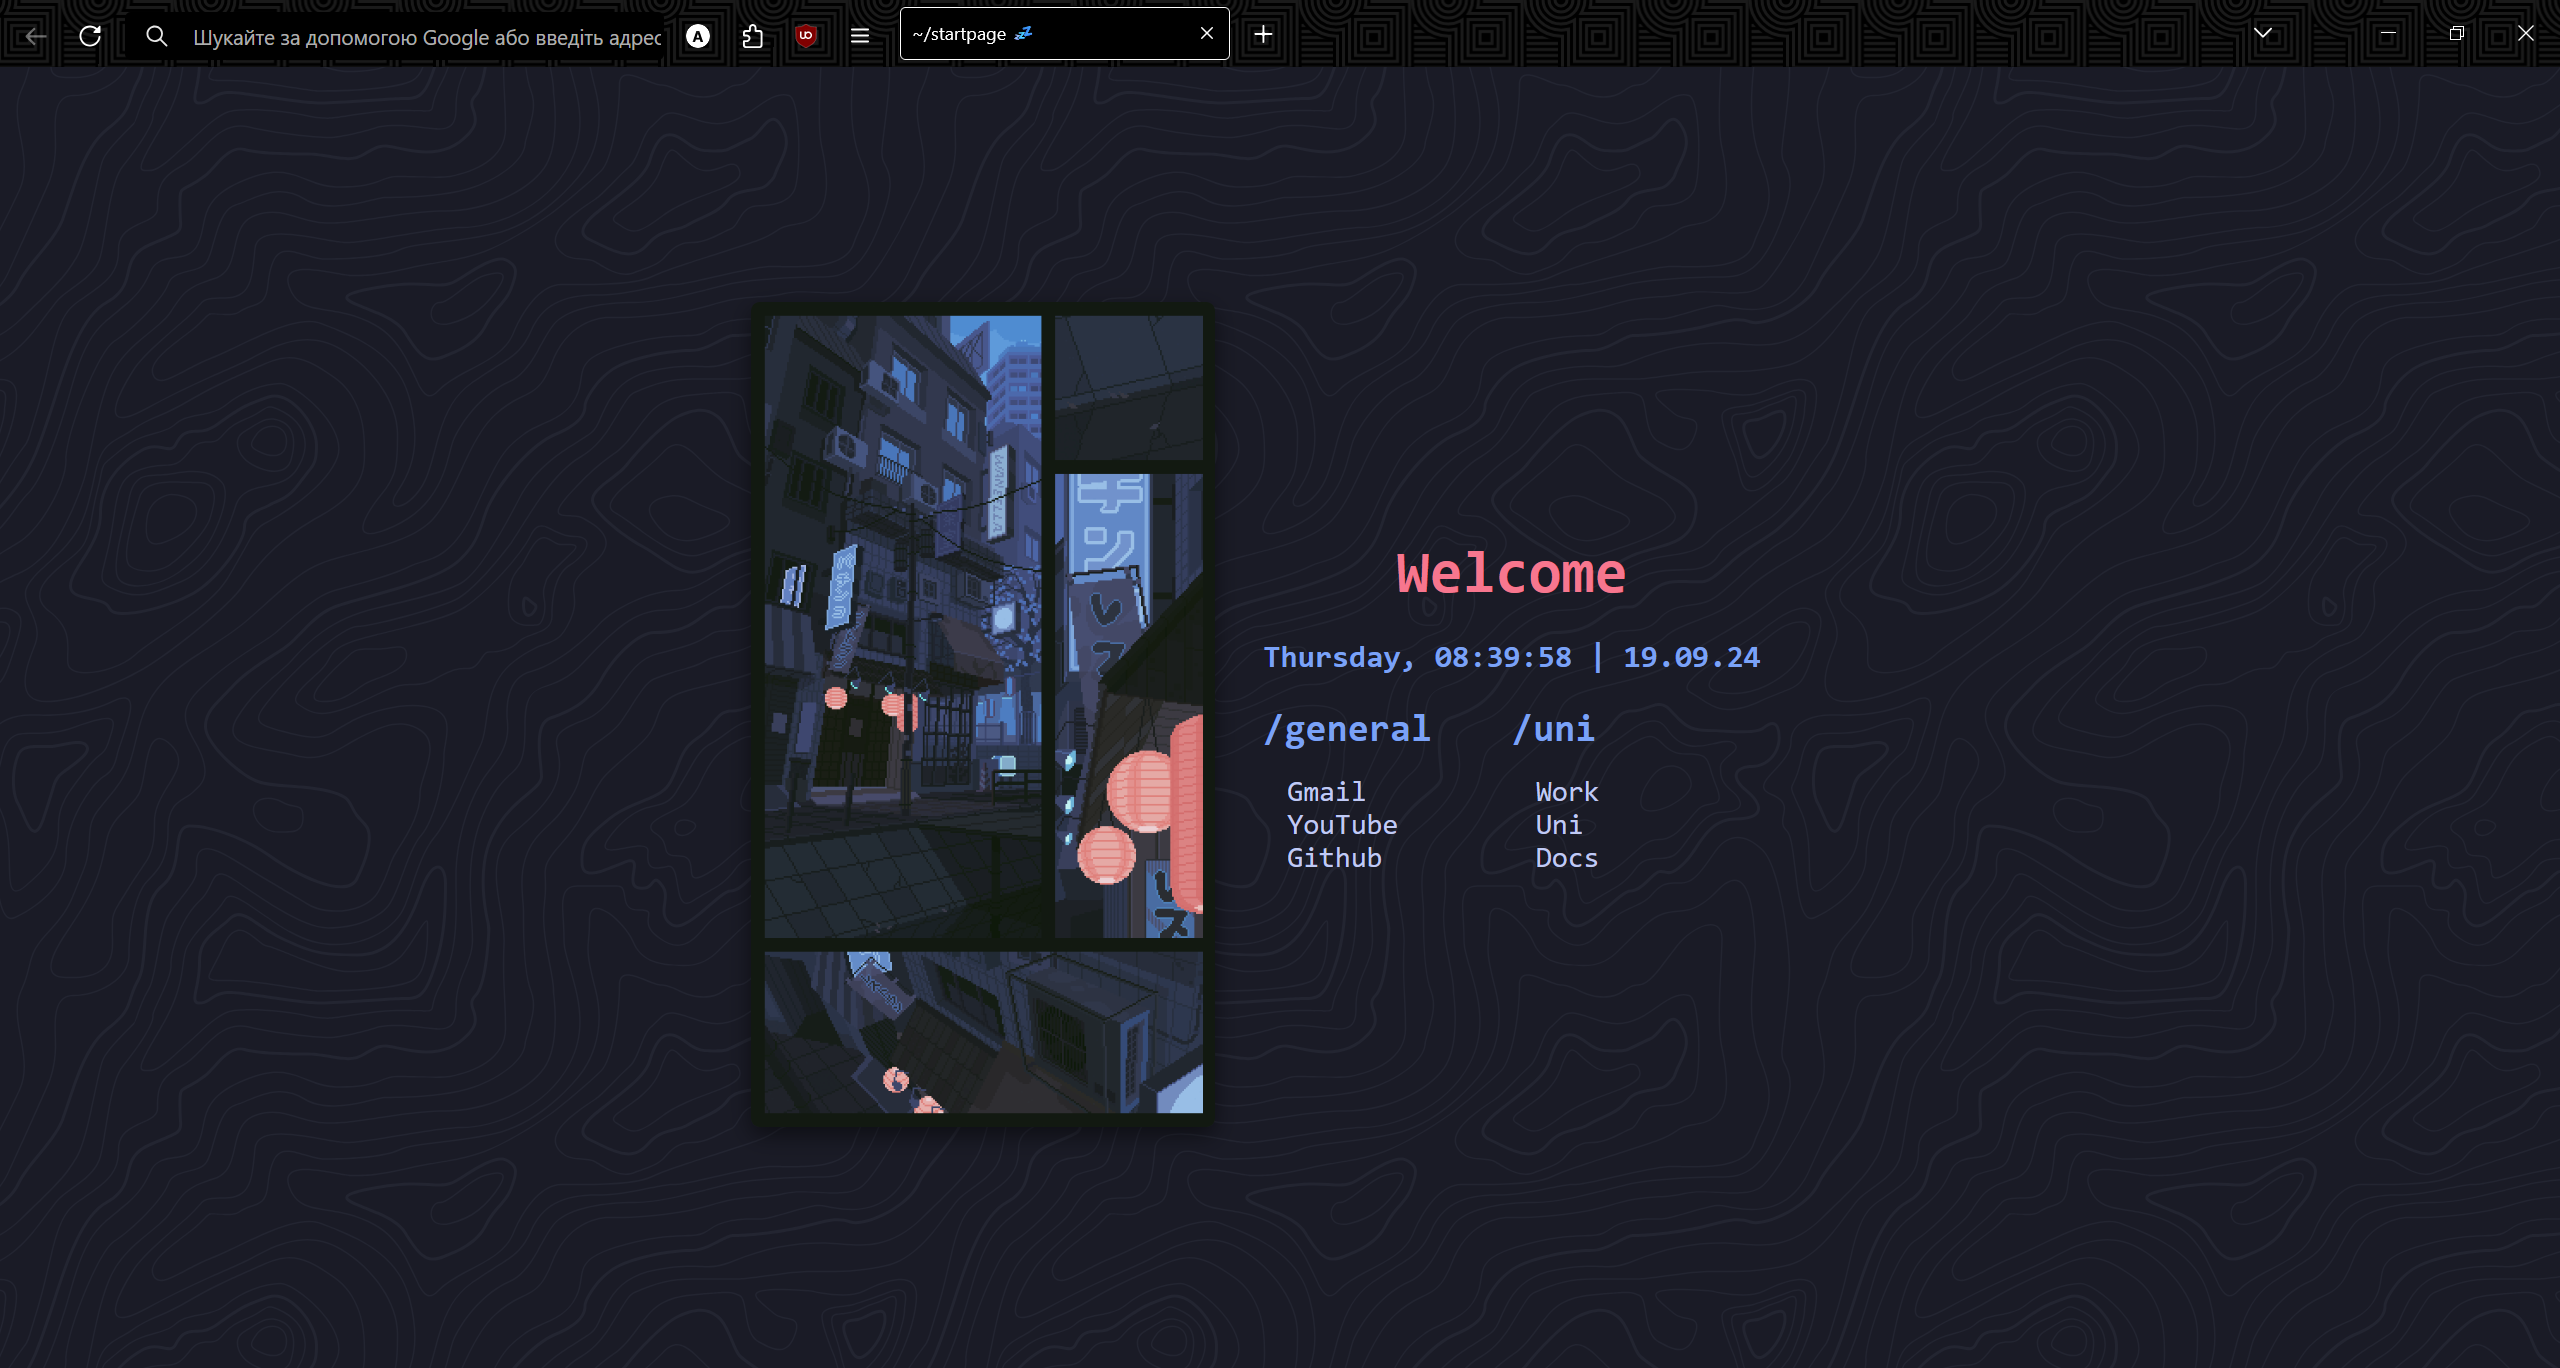
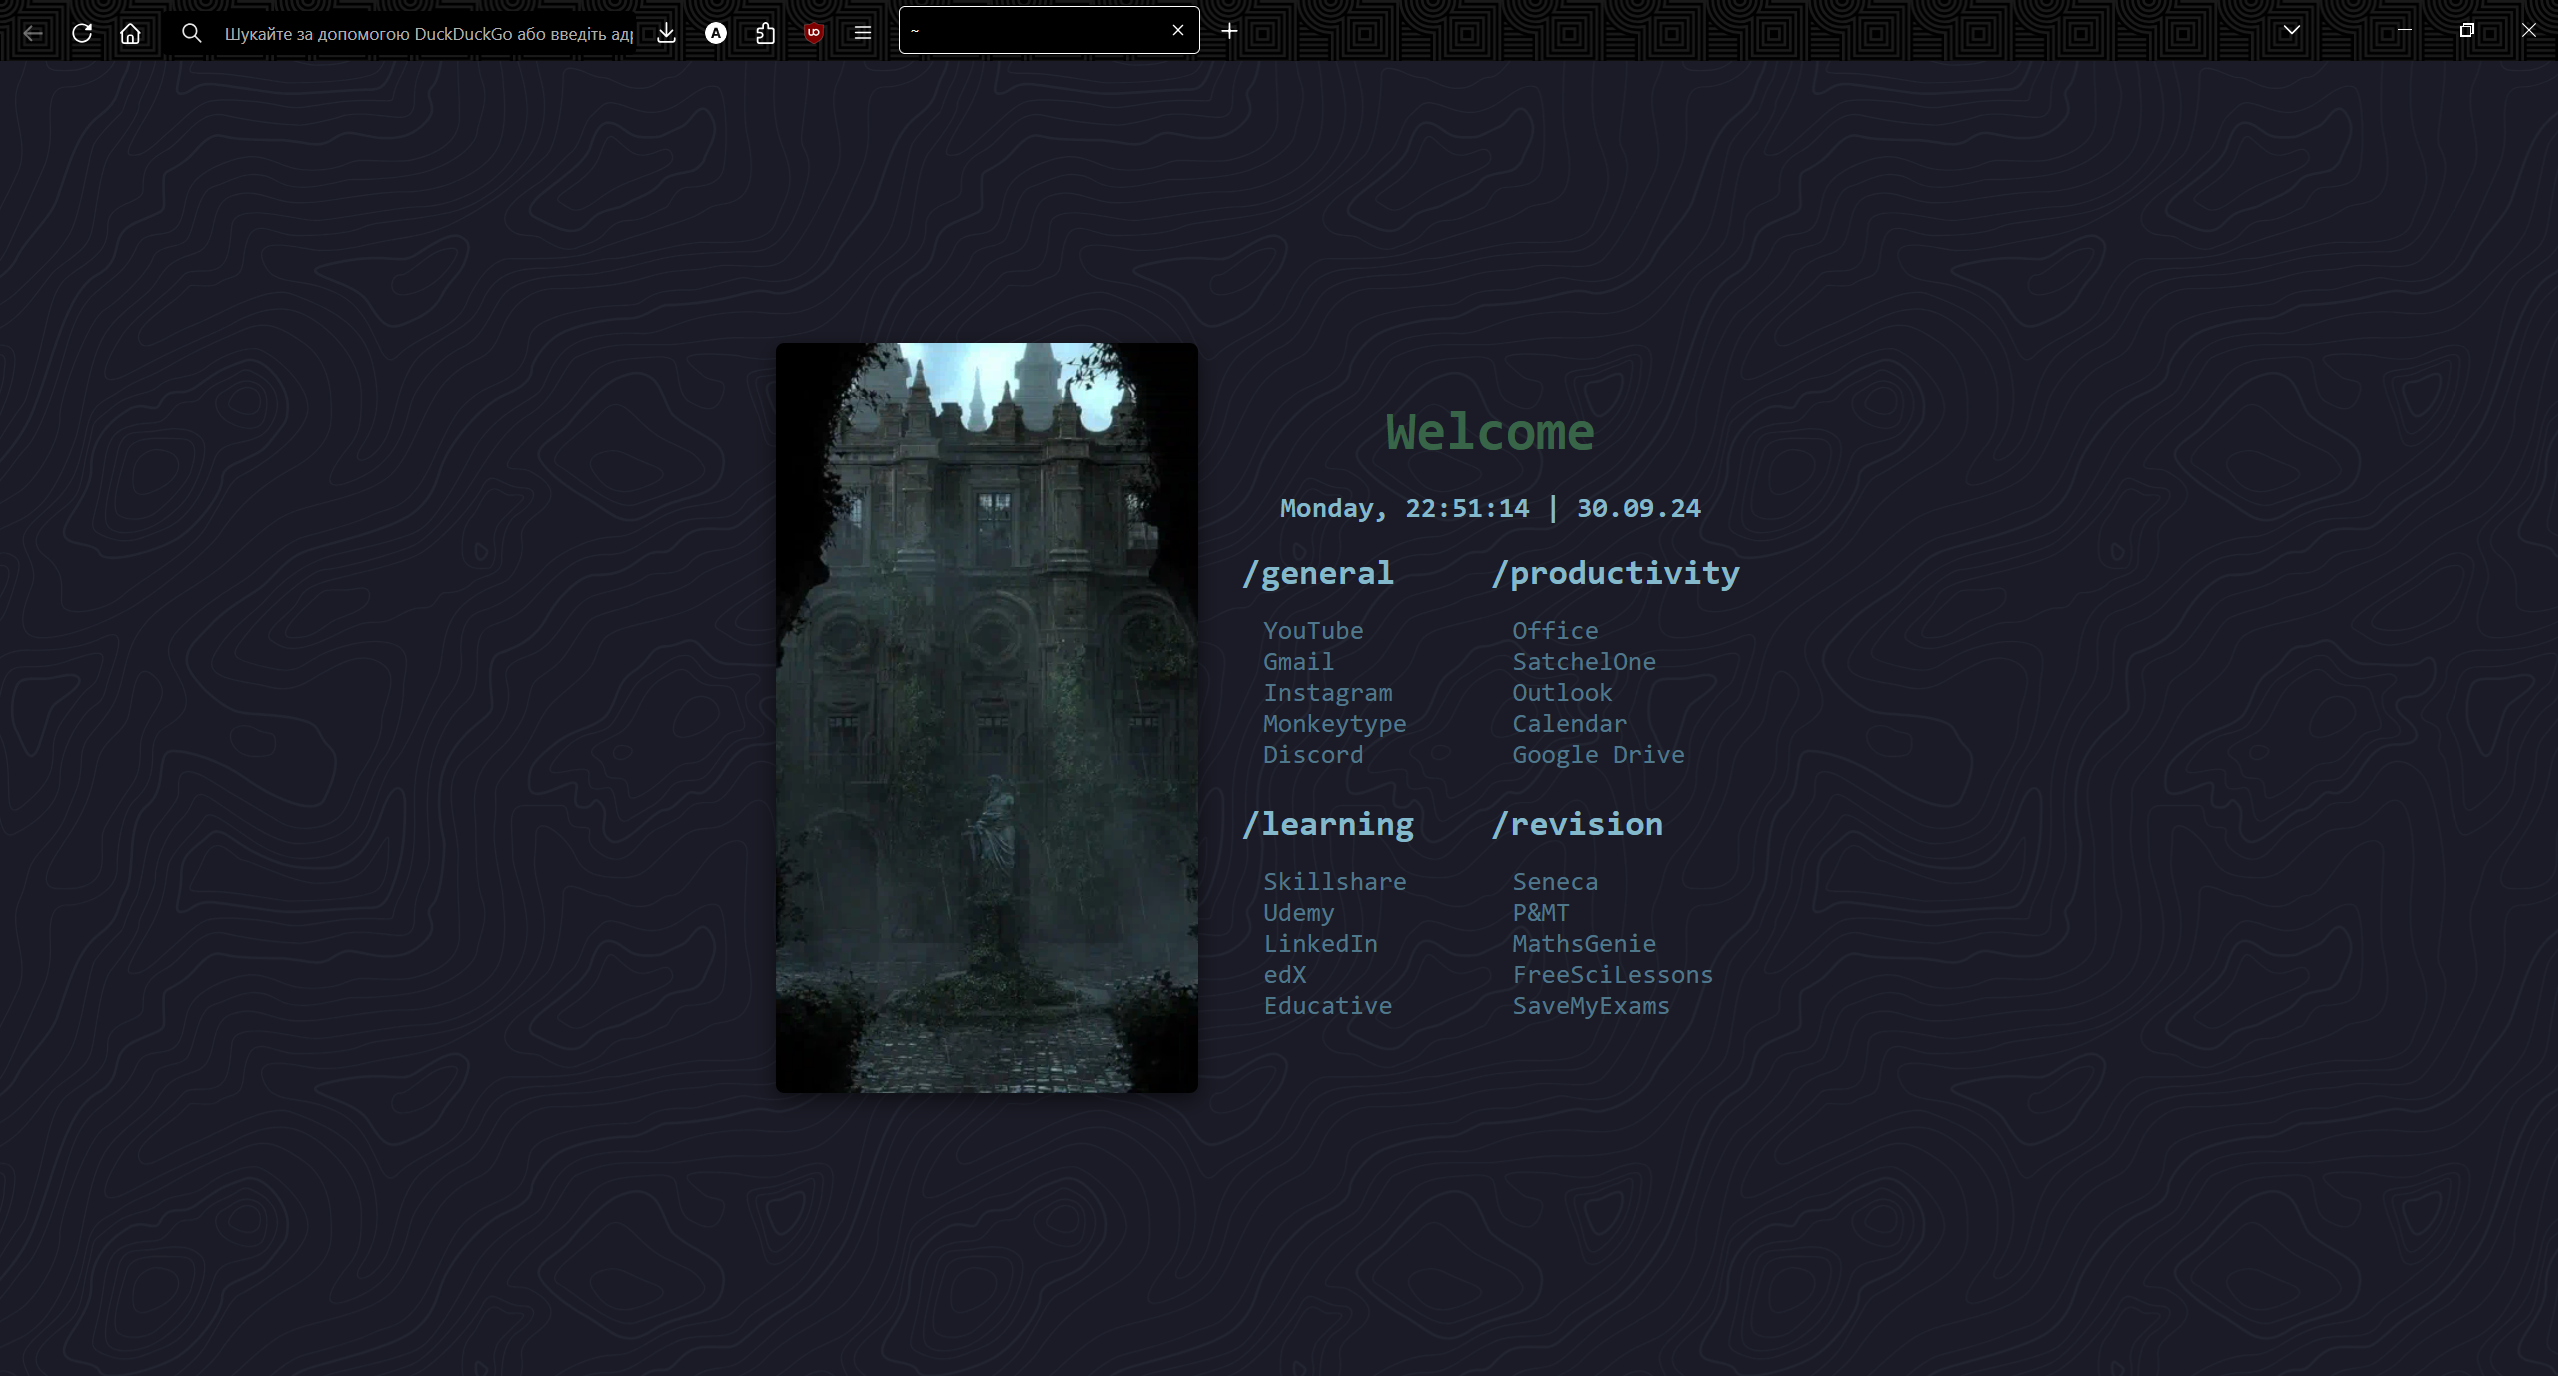
startpage update

diff --git a/chrome/startpage/index.html b/chrome/startpage/index.html
@@ -1,7 +1,7 @@
 <!DOCTYPE html>
 <html lang="en">
   <head>
-    <title>~/startpage 💤</title>
+    <title>~</title>
     <meta charset="UTF-8" />
     <meta name="viewport" content="width=device-width, initial-scale=1" />
     <link href="./src/css/style.css" rel="stylesheet" />
@@ -17,32 +17,32 @@
       <div id="date"></div>
       <script async src="./src/js/date.js"></script>
       <div id="links">
-        <div class="urls">
+        <!-- <div class="urls">
           <div class="header">/general</div>
           <ul>
-            <li><a href="https://mail.google.com">Gmail</a></li>
             <li><a href="https://www.youtube.com/">YouTube</a></li>
-            <li><a href="https://www.github.com/slymachenko">Github</a></li>
+            <li><a href="https://mail.google.com">Gmail</a></li>
+            <li><a href="https://www.instagram.com">Instagram</a></li>
+            <li><a href="https://monkeytype.com/">Monkeytype</a></li>
+            <li><a href="https://discord.com">Discord</a></li>
           </ul>
         </div>
         <div class="urls">
-          <div class="header">/uni</div>
+          <div class="header">/productivity</div>
           <ul>
+            <li><a href="https://www.office.com/">Office</a></li>
+            <li><a href="https://www.satchelone.com">SatchelOne</a></li>
+            <li><a href="https://outlook.live.com">Outlook</a></li>
+            <li><a href="https://calendar.google.com">Calendar</a></li>
             <li>
-              <a href="#">Work</a>
-            </li>
-            <li>
-              <a href="#">Uni</a>
-            </li>
-            <!-- <li><a href="https://outlook.live.com">Outlook</a></li>
-            <li><a href="https://calendar.google.com">Calendar</a></li> -->
-            <li>
-              <a href="https://docs.google.com">Docs</a>
+              <a href="https://drive.google.com/drive/u/0/my-drive"
+                >Google Drive</a
+              >
             </li>
           </ul>
         </div>
-        <!-- <div class="urls">
-          <div class="header">~/learning</div>
+        <div class="urls">
+          <div class="header">/learning</div>
           <ul>
             <li><a href="https://www.skillshare.com/">Skillshare</a></li>
             <li><a href="https://www.udemy.com">Udemy</a></li>
@@ -52,7 +52,7 @@
           </ul>
         </div>
         <div class="urls">
-          <div class="header">~/revision</div>
+          <div class="header">/revision</div>
           <ul>
             <li><a href="https://app.senecalearning.com/">Seneca</a></li>
             <li><a href="https://www.physicsandmathstutor.com">P&MT</a></li>
@@ -65,7 +65,7 @@
             <li><a href="https://www.savemyexams.co.uk">SaveMyExams</a></li>
           </ul>
         </div> -->
-      </div>
+      <script async src="./src/js/links.js" currentIndex="1"></script>
     </div>
   </body>
 </html>

diff --git a/chrome/startpage/src/js/theme.js b/chrome/startpage/src/js/theme.js
@@ -4,61 +4,71 @@ let currentIndex =
 currentIndex = parseInt(currentIndex);
 
 const images = [
-  "cover1.webp",
-  "cover2.webp",
-  "cover3.webp",
   "cover4.gif",
-  "cover5.gif",
-  "cover6.gif",
+  "tokyo-night.gif",
+  "ciri.webp",
+  "nebula.webp",
+  "retro.webp",
+  "ruins.webp",
+  "statue.webp",
 ];
+
 const colorSets = [
   {
-    "--text-color": "#c0caf5",
-    "--hover-color": "#bb9af7",
-    "--accent-color": "#7aa2f7",
-    "--accent-color-2": "#f7768e",
-    "--background-color": "#1a1b26",
-  },
-  {
-    "--text-color": "#9fadc6",
-    "--hover-color": "#9B5856",
-    "--accent-color": "#28725A",
-    "--accent-color-2": "#D2C7CB",
-    "--background-color": "#15191d",
-  },
-  {
-    "--text-color": "#c0caf5",
-    "--hover-color": "#e0af68",
-    "--accent-color": "#7aa2f7",
-    "--accent-color-2": "#bb9af7",
-    "--background-color": "#1a1b26",
-  },
-  {
-    // Catppuccin color scheme
+    // catppuccin.gif color scheme
     "--text-color": "#cdd6f4",
     "--hover-color": "#89b4fa",
-    "--prompt-color": "#a6e3a1",
     "--accent-color": "#b4befe",
     "--accent-color-2": "#f38ba8",
     "--background-color": "#1e1e2e",
   },
   {
-    // Tokyo Night colorscheme
+    // tokyo-night.gif colorscheme
     "--text-color": "#c0caf5",
     "--hover-color": "#bb9af7",
-    "--prompt-color": "#9ece6a",
     "--accent-color": "#7aa2f7",
     "--accent-color-2": "#f7768e",
     "--background-color": "#1a1b26",
   },
   {
-    // Material You Color Scheme
-    "--text-color": "#dee3e6",
-    "--hover-color": "#dc8add",
-    "--prompt-color": "#a6e3a1",
-    "--accent-color": "#86d1e9",
-    "--accent-color-2": "#b2cad3",
-    "--background-color": "#0f1416",
+    // ciri tokyo-night.gif colorscheme
+    "--text-color": "#eaf3ff",
+    "--hover-color": "#b55e6b",
+    "--accent-color": "#356f4b",
+    "--accent-color-2": "#41973f",
+    "--background-color": "#1a1b26",
+  },
+  {
+    // nebula tokyo-night.gif colorscheme
+    "--text-color": "#c0caf5",
+    "--hover-color": "#bb9af7",
+    "--accent-color": "#7aa2f7",
+    "--accent-color-2": "#f7768e",
+    "--background-color": "#1a1b26",
+  },
+  {
+    // retro tokyo-night.gif colorscheme
+    "--text-color": "#c0caf5",
+    "--hover-color": "#bb9af7",
+    "--accent-color": "#7aa2f7",
+    "--accent-color-2": "#f7768e",
+    "--background-color": "#1a1b26",
+  },
+  {
+    // ruins tokyo-night.gif colorscheme
+    "--text-color": "#4f778b",
+    "--hover-color": "#ffffff",
+    "--accent-color": "#84b9cc",
+    "--accent-color-2": "#386547",
+    "--background-color": "#1a1b26",
+  },
+  {
+    // statue tokyo-night.gif colorscheme
+    "--text-color": "#c0caf5",
+    "--hover-color": "#bb9af7",
+    "--accent-color": "#7aa2f7",
+    "--accent-color-2": "#f7768e",
+    "--background-color": "#1a1b26",
   },
 ];
 

diff --git a/chrome/startpage/src/js/links.js b/chrome/startpage/src/js/links.js
@@ -1,0 +1,36 @@
+function fetchLinks(url) {
+  return fetch(url).then((response) => {
+    if (!response.ok) {
+      throw new Error("Network response was not ok");
+    }
+    return response.json();
+  });
+}
+
+fetchLinks("../../links.json")
+  .catch(() => fetchLinks("../../links_example.json"))
+  .then((data) => {
+    const linksContainer = document.getElementById("links");
+    for (const category in data) {
+      const categoryDiv = document.createElement("div");
+      categoryDiv.className = "urls";
+
+      const headerDiv = document.createElement("div");
+      headerDiv.className = "header";
+      headerDiv.textContent = category;
+      categoryDiv.appendChild(headerDiv);
+
+      const ul = document.createElement("ul");
+      for (const linkText in data[category]) {
+        const li = document.createElement("li");
+        const a = document.createElement("a");
+        a.href = data[category][linkText];
+        a.textContent = linkText;
+        li.appendChild(a);
+        ul.appendChild(li);
+      }
+      categoryDiv.appendChild(ul);
+      linksContainer.appendChild(categoryDiv);
+    }
+  })
+  .catch((error) => console.error("Error fetching links:", error));

diff --git a/chrome/startpage/src/css/style.css b/chrome/startpage/src/css/style.css
@@ -5,7 +5,14 @@
 }
 
 :root {
-  color-scheme: dark;
+  /* color-scheme: dark; */
+
+  /* Tokyo Night colorscheme */
+  --text-color: #c0caf5;
+  --hover-color: #bb9af7;
+  --accent-color: #7aa2f7;
+  --accent-color-2: #f7768e;
+  --background-color: #1a1b26;
 }
 
 img {
